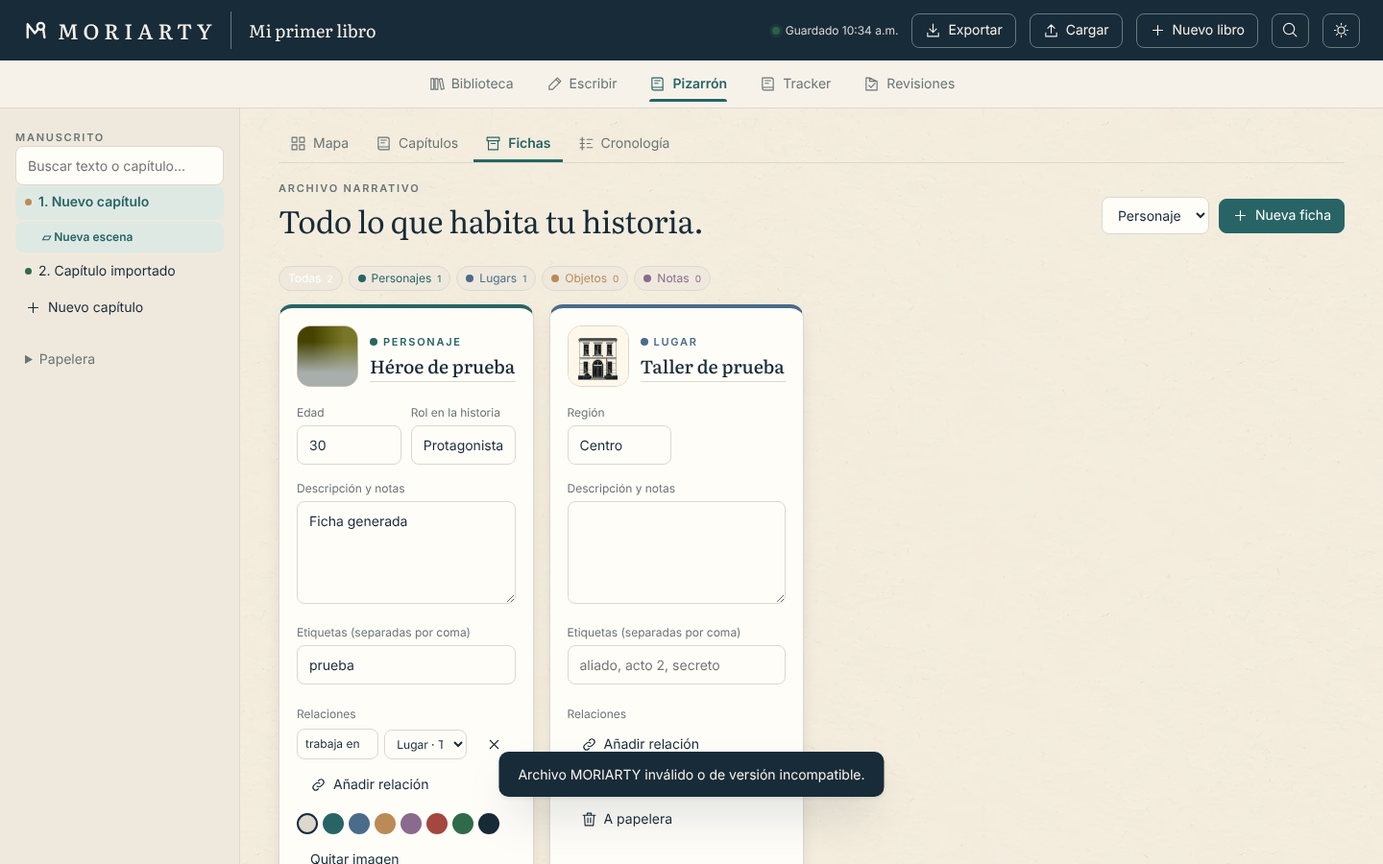
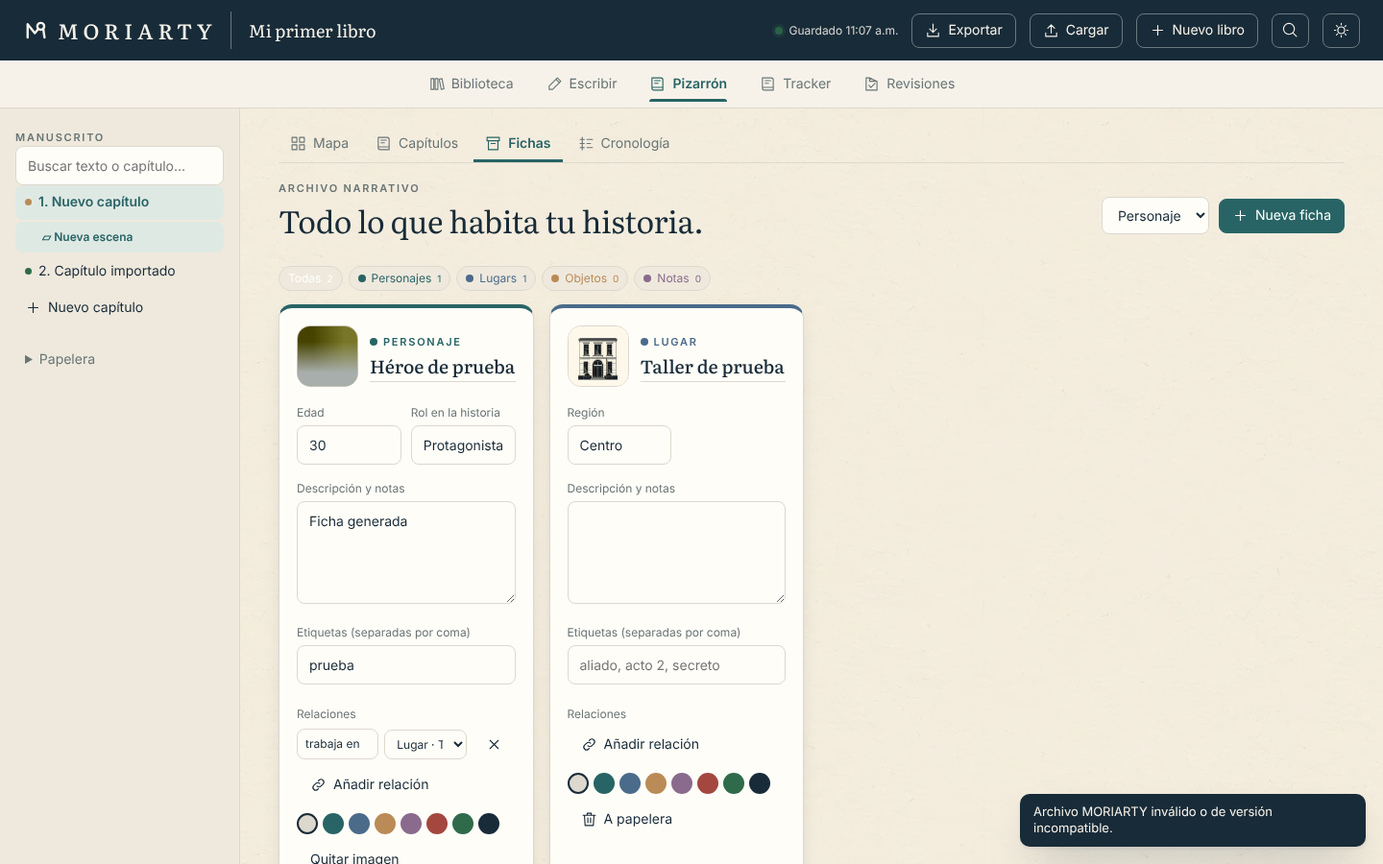
V0.4.1: pulido UX — islas en el Pizarrón, notas apagadas por defecto, zoom legible, avisos abajo a la derecha, iconos SVG en la barra de formato, navegación con pista de desplazamiento e iconos en móvil, detalles del capítulo plegados, fundido entre escenas, atajos visibles, estado vacío del Tracker
Claude-Session: https://claude.ai/code/session_019irDhg9R3vBrL3R1LDZwQ2

Changed region(s): [[0.7188, 0.9022, 1.0, 0.9956], [0.3438, 0.8711, 0.6562, 0.9333], [0.5625, 0.0311, 0.625, 0.0622]]

diff --git a/dist/app.js b/dist/app.js
@@ -405,14 +405,18 @@ function writeView() {
     goal = p.goals.chapter;
   const tb = (id, label, title, cls = '') => `<button type="button" class="fmt ${cls}" data-fmt="${id}" title="${esc(title)}" aria-label="${esc(title)}">${label}</button>`;
   $('#main').innerHTML =
-    `<div class="toolbar"><span class="eyebrow">ESTUDIO DE ESCRITURA</span><span class="spacer"></span><span class="type-size" role="group" aria-label="Tamaño de letra">${btn('smaller', '', '', 'Letra más pequeña')}${btn('bigger', '', '', 'Letra más grande')}</span>${btn('focus', 'Modo enfoque')}${btn('versions', 'Versiones')}${btn('exportChapter', 'Exportar capítulo')}${btn('reviewStart', 'Revisar escena')}</div><article class="editor"><input id="chapterTitle" class="title" aria-label="Título del capítulo" value="${esc(c.title)}"><details class="chapter-details" ${c.summary || c.pov || linked.length ? 'open' : ''}><summary><span class="chip status-${c.status}"><span class="dot"></span>${STATUS_LABEL[c.status]}</span><span>Detalles del capítulo</span>${linked.length ? `<span class="muted">· ${linked.length} ${linked.length === 1 ? 'ficha' : 'fichas'}</span>` : ''}<span class="spacer"></span><span class="muted">${cw.toLocaleString('es-MX')}${goal ? ` / ${goal.toLocaleString('es-MX')}` : ''} palabras</span></summary><div class="body"><label>Estado<select class="field" data-status>${STATUSES.map((st) => `<option value="${st}" ${st === c.status ? 'selected' : ''}>${STATUS_LABEL[st]}</option>`).join('')}</select></label><label>Punto de vista<input class="field" data-pov value="${esc(c.pov)}" placeholder="¿Quién narra?"></label><label class="wide">Resumen<textarea class="field" data-summary rows="2" placeholder="Qué pasa en este capítulo, en dos líneas.">${esc(c.summary)}</textarea></label><div class="wide"><label>Fichas en este capítulo</label><div class="chips">${linked.map((e) => `<span class="chip type-${e.type}"><span class="dot"></span>${esc(e.name)}<button data-unlink="${e.id}" aria-label="Quitar ${esc(e.name)}">${icon('close')}</button></span>`).join('')}<select class="field" data-link style="width:auto;padding:4px 8px;font-size:12px"><option value="">＋ Vincular ficha…</option>${live
+    `<div class="toolbar"><span class="eyebrow">ESTUDIO DE ESCRITURA</span><span class="spacer"></span><span class="type-size" role="group" aria-label="Tamaño de letra">${btn('smaller', '', '', 'Letra más pequeña')}${btn('bigger', '', '', 'Letra más grande')}</span>${btn('focus', 'Modo enfoque')}${btn('versions', 'Versiones')}${btn('exportChapter', 'Exportar capítulo')}${btn('reviewStart', 'Revisar escena')}</div><article class="editor"><input id="chapterTitle" class="title" aria-label="Título del capítulo" value="${esc(c.title)}"><details class="chapter-details" ${prefs.detailsOpen ? 'open' : ''}><summary><span class="chip status-${c.status}"><span class="dot"></span>${STATUS_LABEL[c.status]}</span><span>Detalles del capítulo</span>${c.pov ? `<span class="muted pov-hint">· ${esc(c.pov.length > 24 ? c.pov.slice(0, 23) + '…' : c.pov)}</span>` : ''}${linked.length ? `<span class="muted">· ${linked.length} ${linked.length === 1 ? 'ficha' : 'fichas'}</span>` : ''}<span class="spacer"></span><span class="muted">${cw.toLocaleString('es-MX')}${goal ? ` / ${goal.toLocaleString('es-MX')}` : ''} palabras</span></summary><div class="body"><label>Estado<select class="field" data-status>${STATUSES.map((st) => `<option value="${st}" ${st === c.status ? 'selected' : ''}>${STATUS_LABEL[st]}</option>`).join('')}</select></label><label>Punto de vista<input class="field" data-pov value="${esc(c.pov)}" placeholder="¿Quién narra?"></label><label class="wide">Resumen<textarea class="field" data-summary rows="2" placeholder="Qué pasa en este capítulo, en dos líneas.">${esc(c.summary)}</textarea></label><div class="wide"><label>Fichas en este capítulo</label><div class="chips">${linked.map((e) => `<span class="chip type-${e.type}"><span class="dot"></span>${esc(e.name)}<button data-unlink="${e.id}" aria-label="Quitar ${esc(e.name)}">${icon('close')}</button></span>`).join('')}<select class="field" data-link style="width:auto;padding:4px 8px;font-size:12px"><option value="">＋ Vincular ficha…</option>${live
       .filter((e) => !c.entityIds.includes(e.id))
       .map((e) => `<option value="${e.id}">${esc(e.type)} · ${esc(e.name)}</option>`)
-      .join('')}</select></div></div></div></details>${goal ? `<div class="book-progress" style="margin:-6px 0 12px"><span class="status-${c.status}" style="flex:${Math.min(cw, goal)}"></span><span style="flex:${Math.max(goal - cw, 0)};background:transparent"></span></div>` : ''}<div class="toolbar"><select id="sceneSelect" class="field" aria-label="Escena" style="width:auto;flex:1">${c.scenes.map((s) => `<option value="${s.id}" ${s.id === sid ? 'selected' : ''}>${esc(s.title)}</option>`).join('')}</select>${btn('addScene', '＋ Escena')}${btn('trashChapter', 'A papelera')}</div><input id="sceneTitle" class="subtitle" aria-label="Título de escena" value="${esc(s.title)}"><div class="fmt-bar" role="toolbar" aria-label="Formato">${tb('b', '<b>N</b>', 'Negrita (Ctrl+B)')}${tb('i', '<i>K</i>', 'Cursiva (Ctrl+I)')}${tb('u', '<u>S</u>', 'Subrayado (Ctrl+U)')}<span class="fmt-sep"></span>${tb('quote', icon('text'), 'Sangría / cita')}${tb('center', '≡', 'Centrar')}<span class="fmt-sep"></span>${tb('sep', '＊', 'Separador de escena')}${tb('break', '⤓', 'Salto de página')}${tb('image', icon('image'), 'Insertar imagen')}<span class="fmt-sep"></span>${tb('dash', '—', 'Raya de diálogo')}${tb('ellipsis', '…', 'Puntos suspensivos')}${tb('quotes', '«»', 'Comillas latinas')}<span class="spacer"></span>${tb('dropcap', 'A', 'Letra capital al inicio del capítulo', p.style.dropCap ? 'on' : '')}${tb('search', icon('search'), 'Buscar y reemplazar (Ctrl+Shift+F)')}${tb('read', reading ? icon('edit') : icon('book'), reading ? 'Volver a escribir' : 'Vista de lectura', reading ? 'on' : '')}</div>${
+      .join('')}</select></div></div></div></details>${goal ? `<div class="book-progress" style="margin:-6px 0 12px"><span class="status-${c.status}" style="flex:${Math.min(cw, goal)}"></span><span style="flex:${Math.max(goal - cw, 0)};background:transparent"></span></div>` : ''}<div class="toolbar"><select id="sceneSelect" class="field" aria-label="Escena" style="width:auto;flex:1">${c.scenes.map((s) => `<option value="${s.id}" ${s.id === sid ? 'selected' : ''}>${esc(s.title)}</option>`).join('')}</select>${btn('addScene', '＋ Escena')}${btn('trashChapter', 'A papelera')}</div><input id="sceneTitle" class="subtitle" aria-label="Título de escena" value="${esc(s.title)}"><div class="fmt-bar" role="toolbar" aria-label="Formato">${tb('b', '<b>N</b>', 'Negrita (Ctrl+B)')}${tb('i', '<i>K</i>', 'Cursiva (Ctrl+I)')}${tb('u', '<u>S</u>', 'Subrayado (Ctrl+U)')}<span class="fmt-sep"></span>${tb('quote', icon('indent'), 'Sangría / cita')}${tb('center', icon('center'), 'Centrar')}<span class="fmt-sep"></span>${tb('sep', icon('separator'), 'Separador de escena (* * *)')}${tb('break', icon('pagebreak'), 'Salto de página')}${tb('image', icon('image'), 'Insertar imagen')}<span class="fmt-sep"></span>${tb('dash', '—', 'Raya de diálogo')}${tb('ellipsis', '…', 'Puntos suspensivos')}${tb('quotes', '«»', 'Comillas latinas')}<span class="spacer"></span>${tb('dropcap', icon('dropcap'), 'Letra capital al inicio del capítulo', p.style.dropCap ? 'on' : '')}${tb('help', icon('keyboard'), 'Atajos de teclado')}${tb('search', icon('search'), 'Buscar y reemplazar (Ctrl+Shift+F)')}${tb('read', reading ? icon('edit') : icon('book'), reading ? 'Volver a escribir' : 'Vista de lectura', reading ? 'on' : '')}</div>${
       reading
-        ? `<div class="manuscript reading" id="readingView">${toHtml(s.text, {assets: p.assets, dropCap: p.style.dropCap && c.scenes[0].id === s.id}) || '<p class="muted">Nada escrito todavía.</p>'}</div>`
-        : `<textarea id="text" class="manuscript" aria-label="Texto de la escena" placeholder="Escribe aquí. Esta historia es tuya…" spellcheck="true">${esc(s.text)}</textarea>`
+        ? `<div class="manuscript reading scene-in" id="readingView">${toHtml(s.text, {assets: p.assets, dropCap: p.style.dropCap && c.scenes[0].id === s.id}) || '<p class="muted">Nada escrito todavía.</p>'}</div>`
+        : `<textarea id="text" class="manuscript scene-in" aria-label="Texto de la escena" placeholder="Escribe aquí. Esta historia es tuya…" spellcheck="true">${esc(s.text)}</textarea>`
     }<p class="muted">Formato: *cursiva*, **negrita**, __subrayado__, «> » sangría, «---» salto de página. Se ve al leer y al exportar.</p></article>`;
+  $('.chapter-details').ontoggle = (e) => {
+    prefs.detailsOpen = e.target.open;
+    applyPrefs();
+  };
   $('#chapterTitle').oninput = (e) => {
     c.title = e.target.value;
     save();
@@ -445,6 +449,7 @@ function writeView() {
       const f = b.dataset.fmt;
       if (f === 'read') return ((reading = !reading), writeView());
       if (f === 'search') return searchDialog();
+      if (f === 'help') return shortcutsDialog();
       if (f === 'dropcap') {
         p.style.dropCap = !p.style.dropCap;
         save();
@@ -543,8 +548,21 @@ function writeView() {
     render();
   });
 }
+/* ---------- Atajos ---------- */
+function shortcutsDialog() {
+  const rows = [
+    ['Ctrl + B', 'Negrita'],
+    ['Ctrl + I', 'Cursiva'],
+    ['Ctrl + U', 'Subrayado'],
+    ['Ctrl + Shift + F', 'Buscar y reemplazar'],
+    ['--', 'Se convierte en raya (—)'],
+    ['...', 'Se convierte en puntos suspensivos (…)'],
+    ['Esc', 'Cerrar diálogos y salir del modo enfoque'],
+  ];
+  choose('Atajos de teclado', `<div class="kbd-list">${rows.map(([k, v]) => `<kbd>${esc(k)}</kbd><span>${esc(v)}</span>`).join('')}</div><p class="muted" style="margin-top:12px">Formato en el texto: *cursiva*, **negrita**, __subrayado__, «> » sangría, «-> texto <-» centrado, «---» salto de página, «***» separador.</p>`, [{value: 'ok', label: 'Entendido', primary: true}]);
+}
 /* ---------- Buscar y reemplazar ---------- */
-const searchState = {q: '', r: '', cs: false, ww: false};
+const searchState = {q: '', r: '', cs: false, ww: true};
 function searchDialog() {
   $('#searchDialog')?.remove();
   const d = document.createElement('dialog');
@@ -1278,8 +1296,23 @@ menu('exportMenu', 'export');
 menu('importMenu', 'import');
 document.addEventListener('click', () => $$('.menu').forEach((x) => x.classList.remove('open')));
 document.addEventListener('keydown', (e) => {
-  if (e.key === 'Escape') $$('.menu').forEach((x) => x.classList.remove('open'));
+  if (e.key === 'Escape') {
+    $$('.menu').forEach((x) => x.classList.remove('open'));
+    if (document.body.classList.contains('focus') && !document.querySelector('dialog[open]')) document.body.classList.remove('focus');
+  }
 });
+// Pista de desplazamiento en la navegación cuando no cabe completa.
+{
+  const nav = $('nav');
+  const wrap = document.createElement('div');
+  wrap.className = 'nav-wrap';
+  nav.replaceWith(wrap);
+  wrap.append(nav);
+  const hint = () => wrap.classList.toggle('can-scroll', nav.scrollWidth - nav.clientWidth - nav.scrollLeft > 8);
+  nav.addEventListener('scroll', hint, {passive: true});
+  window.addEventListener('resize', hint);
+  requestAnimationFrame(hint);
+}
 
 /* ---------- Acciones globales ---------- */
 $$('[data-view]').forEach(

diff --git a/dist/board.js b/dist/board.js
@@ -1,10 +1,14 @@
 // MORIARTY — Pizarrón: mapa visual de capítulos, personajes, lugares, objetos y notas, con sus relaciones.
 // SVG plano, sin librerías. Zoom con rueda o pellizco, paneo arrastrando el fondo, nodos arrastrables.
 
-const CW = 176,
-  CH = 78,
-  R = 30;
-const state = {k: 1, tx: 0, ty: 0, sel: null, hidden: new Set(), q: '', fitted: null, drag: null, pointers: new Map()};
+const CW = 184,
+  CH = 80,
+  R = 34,
+  GX = 170,
+  GY = 130,
+  PER_ROW = 7;
+const ISLAND_TITLE = {Capítulo: 'CAPÍTULOS', Personaje: 'PERSONAJES', Lugar: 'LUGARES', Objeto: 'OBJETOS', Nota: 'NOTAS Y GUÍAS'};
+const state = {k: 1, tx: 0, ty: 0, sel: null, hidden: new Set(['Nota']), q: '', fitted: null, drag: null, pointers: new Map()};
 const typeKey = (t) => (t ? t.toLowerCase() : 'capitulo');
 const trunc = (s, n) => (s.length > n ? s.slice(0, n - 1) + '…' : s);
 
@@ -16,8 +20,8 @@ function typeLayout(p, startY, only = null) {
   for (const type of ['Personaje', 'Lugar', 'Objeto', 'Nota']) {
     const list = p.entities.filter((e) => !e.trashed && e.type === type && (!only || only(e)));
     if (!list.length) continue;
-    list.forEach((e, i) => out.set(e.id, {x: 70 + (i % 8) * 150, y: y + Math.floor(i / 8) * 115}));
-    y += Math.ceil(list.length / 8) * 115 + 70;
+    list.forEach((e, i) => out.set(e.id, {x: 90 + (i % PER_ROW) * GX, y: y + Math.floor(i / PER_ROW) * GY}));
+    y += Math.ceil(list.length / PER_ROW) * GY + 90;
   }
   return out;
 }
@@ -26,15 +30,15 @@ function positions(p) {
   const chapters = p.chapters.filter((c) => !c.trashed);
   chapters.forEach((c) => pos.set(c.id, {x: c.x, y: c.y}));
   const maxY = chapters.reduce((m, c) => Math.max(m, c.y + CH), 0);
-  const auto = typeLayout(p, maxY + 130, (e) => e.x === null);
+  const auto = typeLayout(p, maxY + 150, (e) => e.x === null);
   for (const e of p.entities.filter((e) => !e.trashed)) pos.set(e.id, e.x !== null ? {x: e.x, y: e.y} : auto.get(e.id));
   return pos;
 }
 export function autoLayout(p, {all = false} = {}) {
   const chapters = p.chapters.filter((c) => !c.trashed);
-  if (all) chapters.forEach((c, i) => ((c.x = 40 + (i % 6) * (CW + 30)), (c.y = 40 + Math.floor(i / 6) * (CH + 40))));
+  if (all) chapters.forEach((c, i) => ((c.x = 40 + (i % 6) * (CW + 30)), (c.y = 60 + Math.floor(i / 6) * (CH + 40))));
   const maxY = chapters.reduce((m, c) => Math.max(m, c.y + CH), 0);
-  const auto = typeLayout(p, maxY + 130, all ? null : (e) => e.x === null);
+  const auto = typeLayout(p, maxY + 150, all ? null : (e) => e.x === null);
   for (const [id, pt] of auto) {
     const e = p.entities.find((x) => x.id === id);
     e.x = pt.x;
@@ -59,13 +63,14 @@ export function mapView(ctx) {
   const types = ['Capítulo', ...ENTITY_TYPES];
 
   host.innerHTML = `<div class="map-tools"><div class="chips">${types.map((t) => `<button class="chip ${t === 'Capítulo' ? 'type-capitulo' : 'type-' + t} ${state.hidden.has(t) ? 'off' : ''}" data-type="${t}"><span class="dot"></span>${t}${t === 'Capítulo' ? 's' : 's'} <small>${t === 'Capítulo' ? chapters.length : entities.filter((e) => e.type === t).length}</small></button>`).join('')}</div><label class="library-search map-search">${icon('search')}<input id="mapQ" type="search" placeholder="Resaltar en el mapa…" value="${esc(state.q)}" aria-label="Buscar en el mapa"></label><span class="spacer"></span><span class="type-size" role="group" aria-label="Zoom">${btn('zoomOut', '', '', 'Alejar')}${btn('zoomIn', '', '', 'Acercar')}${btn('zoomFit', '', '', 'Ver todo')}</span>${btn('layout', 'Ordenar')}${btn('newEntityMap', '＋ Ficha', 'primary')}</div>
-  <div class="map-stage"><svg id="mapSvg" class="map" role="application" aria-label="Pizarrón"><defs>${entities.map((e) => `<clipPath id="clip-${e.id}"><circle r="${R - 3}"/></clipPath>`).join('')}</defs><g id="world"><g id="edges"></g><g id="nodes"></g></g></svg><aside id="mapPanel" class="map-panel" hidden></aside><svg id="minimap" class="minimap" aria-hidden="true"></svg>${!chapters.length && !entities.length ? `<div class="map-empty">${ctx.art('vacio-pizarron')}<p class="muted">Crea capítulos y fichas, o carga un libro. Aquí los verás conectados.</p></div>` : ''}</div>
+  <div class="map-stage"><svg id="mapSvg" class="map" role="application" aria-label="Pizarrón"><defs>${entities.map((e) => `<clipPath id="clip-${e.id}"><circle r="${R - 3}"/></clipPath>`).join('')}</defs><g id="world"><g id="islands"></g><g id="edges"></g><g id="nodes"></g></g></svg><aside id="mapPanel" class="map-panel" hidden></aside><svg id="minimap" class="minimap" aria-hidden="true"></svg>${!chapters.length && !entities.length ? `<div class="map-empty">${ctx.art('vacio-pizarron')}<p class="muted">Crea capítulos y fichas, o carga un libro. Aquí los verás conectados.</p></div>` : ''}</div>
   <div class="timeline-strip" id="mapTimeline"></div>`;
 
   const svg = $('#mapSvg'),
     world = $('#world'),
     edgesG = $('#edges'),
-    nodesG = $('#nodes');
+    nodesG = $('#nodes'),
+    islandsG = $('#islands');
   const pos = positions(p);
   const nodeOf = (id) => byId.get(id);
   const center = (id) => {
@@ -88,7 +93,7 @@ export function mapView(ctx) {
     const img = n.image
       ? `<image href="${n.image}" x="${-(R - 3)}" y="${-(R - 3)}" width="${2 * (R - 3)}" height="${2 * (R - 3)}" clip-path="url(#clip-${n.id})" preserveAspectRatio="xMidYMid slice"/>`
       : `<image href="${imgFor(n)}" x="${-(R - 3)}" y="${-(R - 3)}" width="${2 * (R - 3)}" height="${2 * (R - 3)}" clip-path="url(#clip-${n.id})" preserveAspectRatio="xMidYMid slice"/>`;
-    return `<g class="node entity type-${n.type} ${dim} ${sel}" data-id="${n.id}" transform="translate(${pt.x},${pt.y})"><circle class="ring" r="${R}" style="${n.color ? 'stroke:' + n.color : ''}"/>${img}<text class="n-label" y="${R + 16}" text-anchor="middle">${esc(trunc(n.name, 22))}</text></g>`;
+    return `<g class="node entity type-${n.type} ${dim} ${sel}" data-id="${n.id}" transform="translate(${pt.x},${pt.y})"><circle class="ring" r="${R}" style="${n.color ? 'stroke:' + n.color : ''}"/>${img}<text class="n-label" y="${R + 16}" text-anchor="middle">${esc(trunc(n.name, 20))}</text></g>`;
   };
   const edgesHtml = () => {
     const out = [];
@@ -111,6 +116,29 @@ export function mapView(ctx) {
             out.push(`<line class="edge rel" x1="${a.x}" y1="${a.y}" x2="${b.x}" y2="${b.y}"/>${r.label && state.k > 0.6 ? `<g class="edge-label" transform="translate(${mx},${my})"><rect x="${-r.label.length * 3.2 - 5}" y="-9" width="${r.label.length * 6.4 + 10}" height="18" rx="9"/><text y="4" text-anchor="middle">${esc(r.label)}</text></g>` : ''}`);
           }
     return out.join('');
+  };
+  // Islas: un marco tenue con título alrededor de cada grupo (capítulos y cada tipo de ficha), calculado con las posiciones reales.
+  const drawIslands = () => {
+    const groups = new Map();
+    for (const n of [...chapters, ...entities]) {
+      if (!visible(n.id)) continue;
+      const t = n.type || 'Capítulo';
+      const pt = pos.get(n.id);
+      const box = n.type ? {x0: pt.x - R, y0: pt.y - R, x1: pt.x + R, y1: pt.y + R + 22} : {x0: pt.x, y0: pt.y, x1: pt.x + CW, y1: pt.y + CH};
+      const g = groups.get(t) || {x0: Infinity, y0: Infinity, x1: -Infinity, y1: -Infinity, n: 0};
+      g.x0 = Math.min(g.x0, box.x0);
+      g.y0 = Math.min(g.y0, box.y0);
+      g.x1 = Math.max(g.x1, box.x1);
+      g.y1 = Math.max(g.y1, box.y1);
+      g.n++;
+      groups.set(t, g);
+    }
+    islandsG.innerHTML = [...groups]
+      .map(([t, g]) => {
+        const pad = 28;
+        return `<g class="island type-${typeKey(t === 'Capítulo' ? null : t)}"><rect x="${g.x0 - pad}" y="${g.y0 - pad - 18}" width="${g.x1 - g.x0 + 2 * pad}" height="${g.y1 - g.y0 + 2 * pad + 18}" rx="22"/><text x="${g.x0 - pad + 18}" y="${g.y0 - pad + 2}">${ISLAND_TITLE[t] || esc(t)} <tspan class="island-n">${g.n}</tspan></text></g>`;
+      })
+      .join('');
   };
   const drawNodes = () => {
     nodesG.innerHTML = [...chapters, ...entities].filter((n) => visible(n.id)).map(nodeHtml).join('');
@@ -136,10 +164,24 @@ export function mapView(ctx) {
     const b = bbox(),
       W = svg.clientWidth,
       H = svg.clientHeight;
+    const kAll = Math.min(W / (b.w + 80), H / (b.h + 80));
+    // Si para ver todo habría que alejar demasiado (etiquetas ilegibles), se prefiere un zoom legible alineado arriba.
+    const legible = W < 700 ? 0.42 : 0.55;
+    state.k = Math.min(1.2, Math.max(legible, kAll));
+    state.tx = (W - b.w * state.k) / 2 - b.x * state.k;
+    state.ty = state.k > kAll + 0.001 ? 24 - (b.y - 46) * state.k : (H - b.h * state.k) / 2 - b.y * state.k;
+    applyTransform();
+    drawEdges();
+  };
+  const fitAll = () => {
+    const b = bbox(),
+      W = svg.clientWidth,
+      H = svg.clientHeight;
     state.k = Math.min(1.2, Math.max(0.15, Math.min(W / (b.w + 80), H / (b.h + 80))));
     state.tx = (W - b.w * state.k) / 2 - b.x * state.k;
     state.ty = (H - b.h * state.k) / 2 - b.y * state.k;
     applyTransform();
+    drawEdges();
   };
   const zoomAt = (factor, cx, cy) => {
     const k = Math.min(3, Math.max(0.15, state.k * factor));
@@ -224,6 +266,7 @@ export function mapView(ctx) {
     $('#panelClose').onclick = () => ((state.sel = null), redraw(), showPanel());
   };
   const redraw = () => {
+    drawIslands();
     drawEdges();
     drawNodes();
     drawMinimap();
@@ -291,6 +334,7 @@ export function mapView(ctx) {
       pt.y = Math.round(w.y - d.dy);
       d.el.setAttribute('transform', `translate(${pt.x},${pt.y})`);
       drawEdges();
+      drawIslands();
     }
   };
   svg.onpointerup = svg.onpointercancel = (e) => {
@@ -356,7 +400,7 @@ export function mapView(ctx) {
   };
   bind('zoomIn', () => zoomAt(1.25, svg.clientWidth / 2, svg.clientHeight / 2));
   bind('zoomOut', () => zoomAt(1 / 1.25, svg.clientWidth / 2, svg.clientHeight / 2));
-  bind('zoomFit', fit);
+  bind('zoomFit', fitAll);
   bind('layout', async () => {
     const r = await choose('Ordenar el pizarrón', `<p>Capítulos en filas por orden del libro; fichas agrupadas por tipo debajo.</p><label class="check"><input type="checkbox" id="layoutAll"> Reacomodar también lo que ya moví a mano</label>`, [{value: 'go', label: 'Ordenar', primary: true}]);
     if (!r) return;

diff --git a/dist/style.css b/dist/style.css
@@ -1187,14 +1187,16 @@ label .field {
 /* ---------- Toast, splash, overlays ---------- */
 #toast {
   position: fixed;
-  bottom: 70px;
-  left: 50%;
-  transform: translate(-50%, 12px);
+  bottom: 18px;
+  right: 18px;
+  transform: translate(0, 12px);
   background: var(--toast-bg);
   color: var(--toast-fg);
-  padding: 13px 20px;
+  padding: 10px 14px;
   border-radius: 10px;
-  max-width: 90vw;
+  font-size: 13px;
+  line-height: 1.35;
+  max-width: min(360px, calc(100vw - 36px));
   z-index: 50;
   opacity: 0;
   pointer-events: none;
@@ -1205,7 +1207,7 @@ label .field {
 }
 #toast.show {
   opacity: 1;
-  transform: translate(-50%, 0);
+  transform: translate(0, 0);
   pointer-events: auto;
 }
 #splash {
@@ -2421,4 +2423,64 @@ body::before {
   .fmt-bar {
     top: 44px;
   }
+}
+
+
+/* ---------- V0.4.1: pulido UX ---------- */
+/* Islas del Pizarrón */
+.map .island rect {
+  fill: color-mix(in srgb, currentColor 6%, transparent);
+  stroke: color-mix(in srgb, currentColor 28%, transparent);
+  stroke-width: 1.5;
+  stroke-dasharray: 6 6;
+}
+.map .island text {
+  font: 700 13px var(--sans);
+  letter-spacing: 2px;
+  fill: currentColor;
+  opacity: 0.85;
+}
+.map .island .island-n {
+  font-weight: 500;
+  letter-spacing: 0;
+  opacity: 0.7;
+}
+.map .island.type-capitulo { color: var(--teal); }
+.map .island.type-personaje { color: var(--c-personaje); }
+.map .island.type-lugar { color: var(--c-lugar); }
+.map .island.type-objeto { color: var(--c-objeto); }
+.map .island.type-nota { color: var(--c-nota); }
+.map .n-label { font-size: 13px; }
+/* Navegación: pista de que se puede deslizar en pantallas angostas */
+.nav-wrap { position: relative; }
+.nav-wrap::after {
+  content: '';
+  position: absolute;
+  top: 0;
+  right: 0;
+  bottom: 1px;
+  width: 44px;
+  pointer-events: none;
+  background: linear-gradient(90deg, transparent, var(--paper));
+  opacity: 0;
+  transition: opacity var(--t);
+}
+.nav-wrap.can-scroll::after { opacity: 1; }
+/* Barra de formato con iconos SVG */
+.fmt-bar .fmt svg { width: 18px; height: 18px; }
+.fmt-bar .fmt .lbl { display: none; }
+/* Editor: fundido al cambiar de escena */
+@keyframes scene-in { from { opacity: 0; transform: translateY(4px); } to { opacity: 1; transform: none; } }
+.manuscript.scene-in { animation: scene-in 160ms var(--ease); }
+/* Atajos */
+.kbd-list { display: grid; grid-template-columns: auto 1fr; gap: 6px 14px; align-items: center; font-size: 14px; }
+kbd { font: 12px ui-monospace, SFMono-Regular, Menlo, monospace; background: var(--paper-2); border: 1px solid var(--line-strong); border-bottom-width: 2px; border-radius: 6px; padding: 2px 7px; white-space: nowrap; }
+/* Tracker: estado sin palabras hoy */
+.stat.quiet .ring { opacity: 0.45; }
+.stat .hint { font-size: 12px; color: var(--muted); margin-top: 2px; }
+@media (max-width: 640px) {
+  .chapter-details summary .pov-hint { display: none; }
+  nav button span { display: none; }
+  nav button { padding: 9px 12px; }
+  nav button svg { width: 20px; height: 20px; }
 }

diff --git a/dist/tracker.js b/dist/tracker.js
@@ -76,7 +76,11 @@ export function trackerView(ctx) {
   const upcoming = [...p.milestones].sort((a, b) => (a.date || '9999').localeCompare(b.date || '9999'));
   ctx.main().innerHTML = `<div class="toolbar"><div><div class="eyebrow">TRACKER</div><h1>Lo que llevas. Lo que falta.</h1></div><span class="spacer"></span>${btn('addMilestone', '＋ Fecha clave', 'primary')}</div>
   <div class="stats-row">
-    ${ring(st.todayWords, g.daily, 'Hoy', g.daily ? `meta ${g.daily.toLocaleString('es-MX')} · ${pct(st.todayWords, g.daily)}%` : 'sin meta diaria', st.todayWords >= g.daily && g.daily ? 'hit' : '')}
+    ${
+      st.todayWords
+        ? ring(st.todayWords, g.daily, 'Hoy', g.daily ? `meta ${g.daily.toLocaleString('es-MX')} · ${pct(st.todayWords, g.daily)}%` : 'sin meta diaria', st.todayWords >= g.daily && g.daily ? 'hit' : '')
+        : `<div class="stat quiet"><div class="big">${st.best ? st.best.toLocaleString('es-MX') : '—'}<small>${st.best ? 'mejor día' : 'hoy'}</small></div><div><b>Hoy, todavía nada</b><small>${g.daily ? `Con ${g.daily.toLocaleString('es-MX')} palabras cumples la meta.` : 'Cualquier párrafo cuenta.'}</small>${st.streak ? `<div class="hint">Llevas ${st.streak} ${st.streak === 1 ? 'día' : 'días'} de racha: hoy la mantienes.</div>` : ''}</div></div>`
+    }
     <div class="stat"><div class="big">${st.streak}<small>${st.streak === 1 ? 'día' : 'días'}</small></div><div><b>Racha</b><small>${st.streak ? 'seguidos escribiendo' : st.todayWords ? '' : 'escribe hoy para empezar'}${st.best ? ` · mejor día ${st.best.toLocaleString('es-MX')}` : ''}</small></div></div>
     <div class="stat wide"><div><b>Libro</b><small>${st.total.toLocaleString('es-MX')} de ${g.total.toLocaleString('es-MX')} palabras · ${pct(st.total, g.total)}%</small></div><div class="book-progress"><span class="status-listo" style="flex:${Math.min(st.total, g.total)}"></span><span style="flex:${Math.max(g.total - st.total, 0)};background:transparent"></span></div><small class="muted">${st.pace ? `Ritmo: ${st.pace.toLocaleString('es-MX')} palabras/día (últimas 2 semanas). A este paso terminas el <b>${fmtDate(st.projected, {day: 'numeric', month: 'long', year: 'numeric'})}</b>.` : 'Escribe unos días y te digo a qué ritmo vas.'}</small></div>
     <div class="stat"><div class="big">${st.deadlineDays === null ? '—' : st.deadlineDays}<small>${st.deadlineDays === null ? '' : st.deadlineDays === 1 ? 'día' : 'días'}</small></div><div><b>Fecha límite</b><small>${g.deadline ? `${fmtDate(g.deadline, {day: 'numeric', month: 'long'})}${st.needed ? ` · necesitas ${st.needed.toLocaleString('es-MX')}/día` : st.deadlineDays < 0 ? ' · ya pasó' : ''}` : 'sin fecha · ponla abajo'}</small></div></div>

diff --git a/dist/icons.js b/dist/icons.js
@@ -24,6 +24,13 @@ const paths = {
   check: 'm4 12 5 5L20 6',
   close: 'm6 6 12 12 M18 6 6 18',
   text: 'M4 4h16 M12 4v16 M8 20h8',
+  indent: 'M4 6h16 M10 12h10 M10 18h10 M4 10l3 2-3 2',
+  center: 'M4 6h16 M7 12h10 M4 18h16',
+  separator: 'M4 12h3 M10 12h4 M17 12h3 M12 6l1.5 2.5h-3z M12 18l1.5-2.5h-3z',
+  pagebreak: 'M5 3h10l4 4v3 M5 3v7 M5 14v7h14v-7 M3 12h3 M9 12h3 M15 12h3 M21 12h0',
+  dropcap: 'M3 20 8 5l5 15 M4.5 15h7 M15 8h6 M15 12h6 M15 16h6 M15 20h6',
+  help: 'M12 21a9 9 0 1 0 0-18 9 9 0 0 0 0 18z M9.5 9.5a2.5 2.5 0 1 1 3.5 2.3c-.8.4-1 1-1 1.7 M12 17h.01',
+  keyboard: 'M3 6h18v12H3z M7 10h.01 M11 10h.01 M15 10h.01 M7 14h10',
   file: 'M4 3h10l6 6v12H4z M14 3v6h6 M8 13h8 M8 17h6',
   image: 'M3 5h18v14H3z M3 15l5-5 4 4 3-3 6 6 M16 9a1 1 0 1 0 0-.1',
   tag: 'M3 12V3h9l9 9-9 9-9-9z M7 7h.1',

diff --git a/dist/sw.js b/dist/sw.js
@@ -1,5 +1,5 @@
 // MORIARTY V0.3 — caché para uso sin conexión. Cambiar CACHE al publicar una versión nueva.
-const CACHE = 'moriarty-v04-2';
+const CACHE = 'moriarty-v04-3';
 const FILES = [
   './',
   './index.html',
